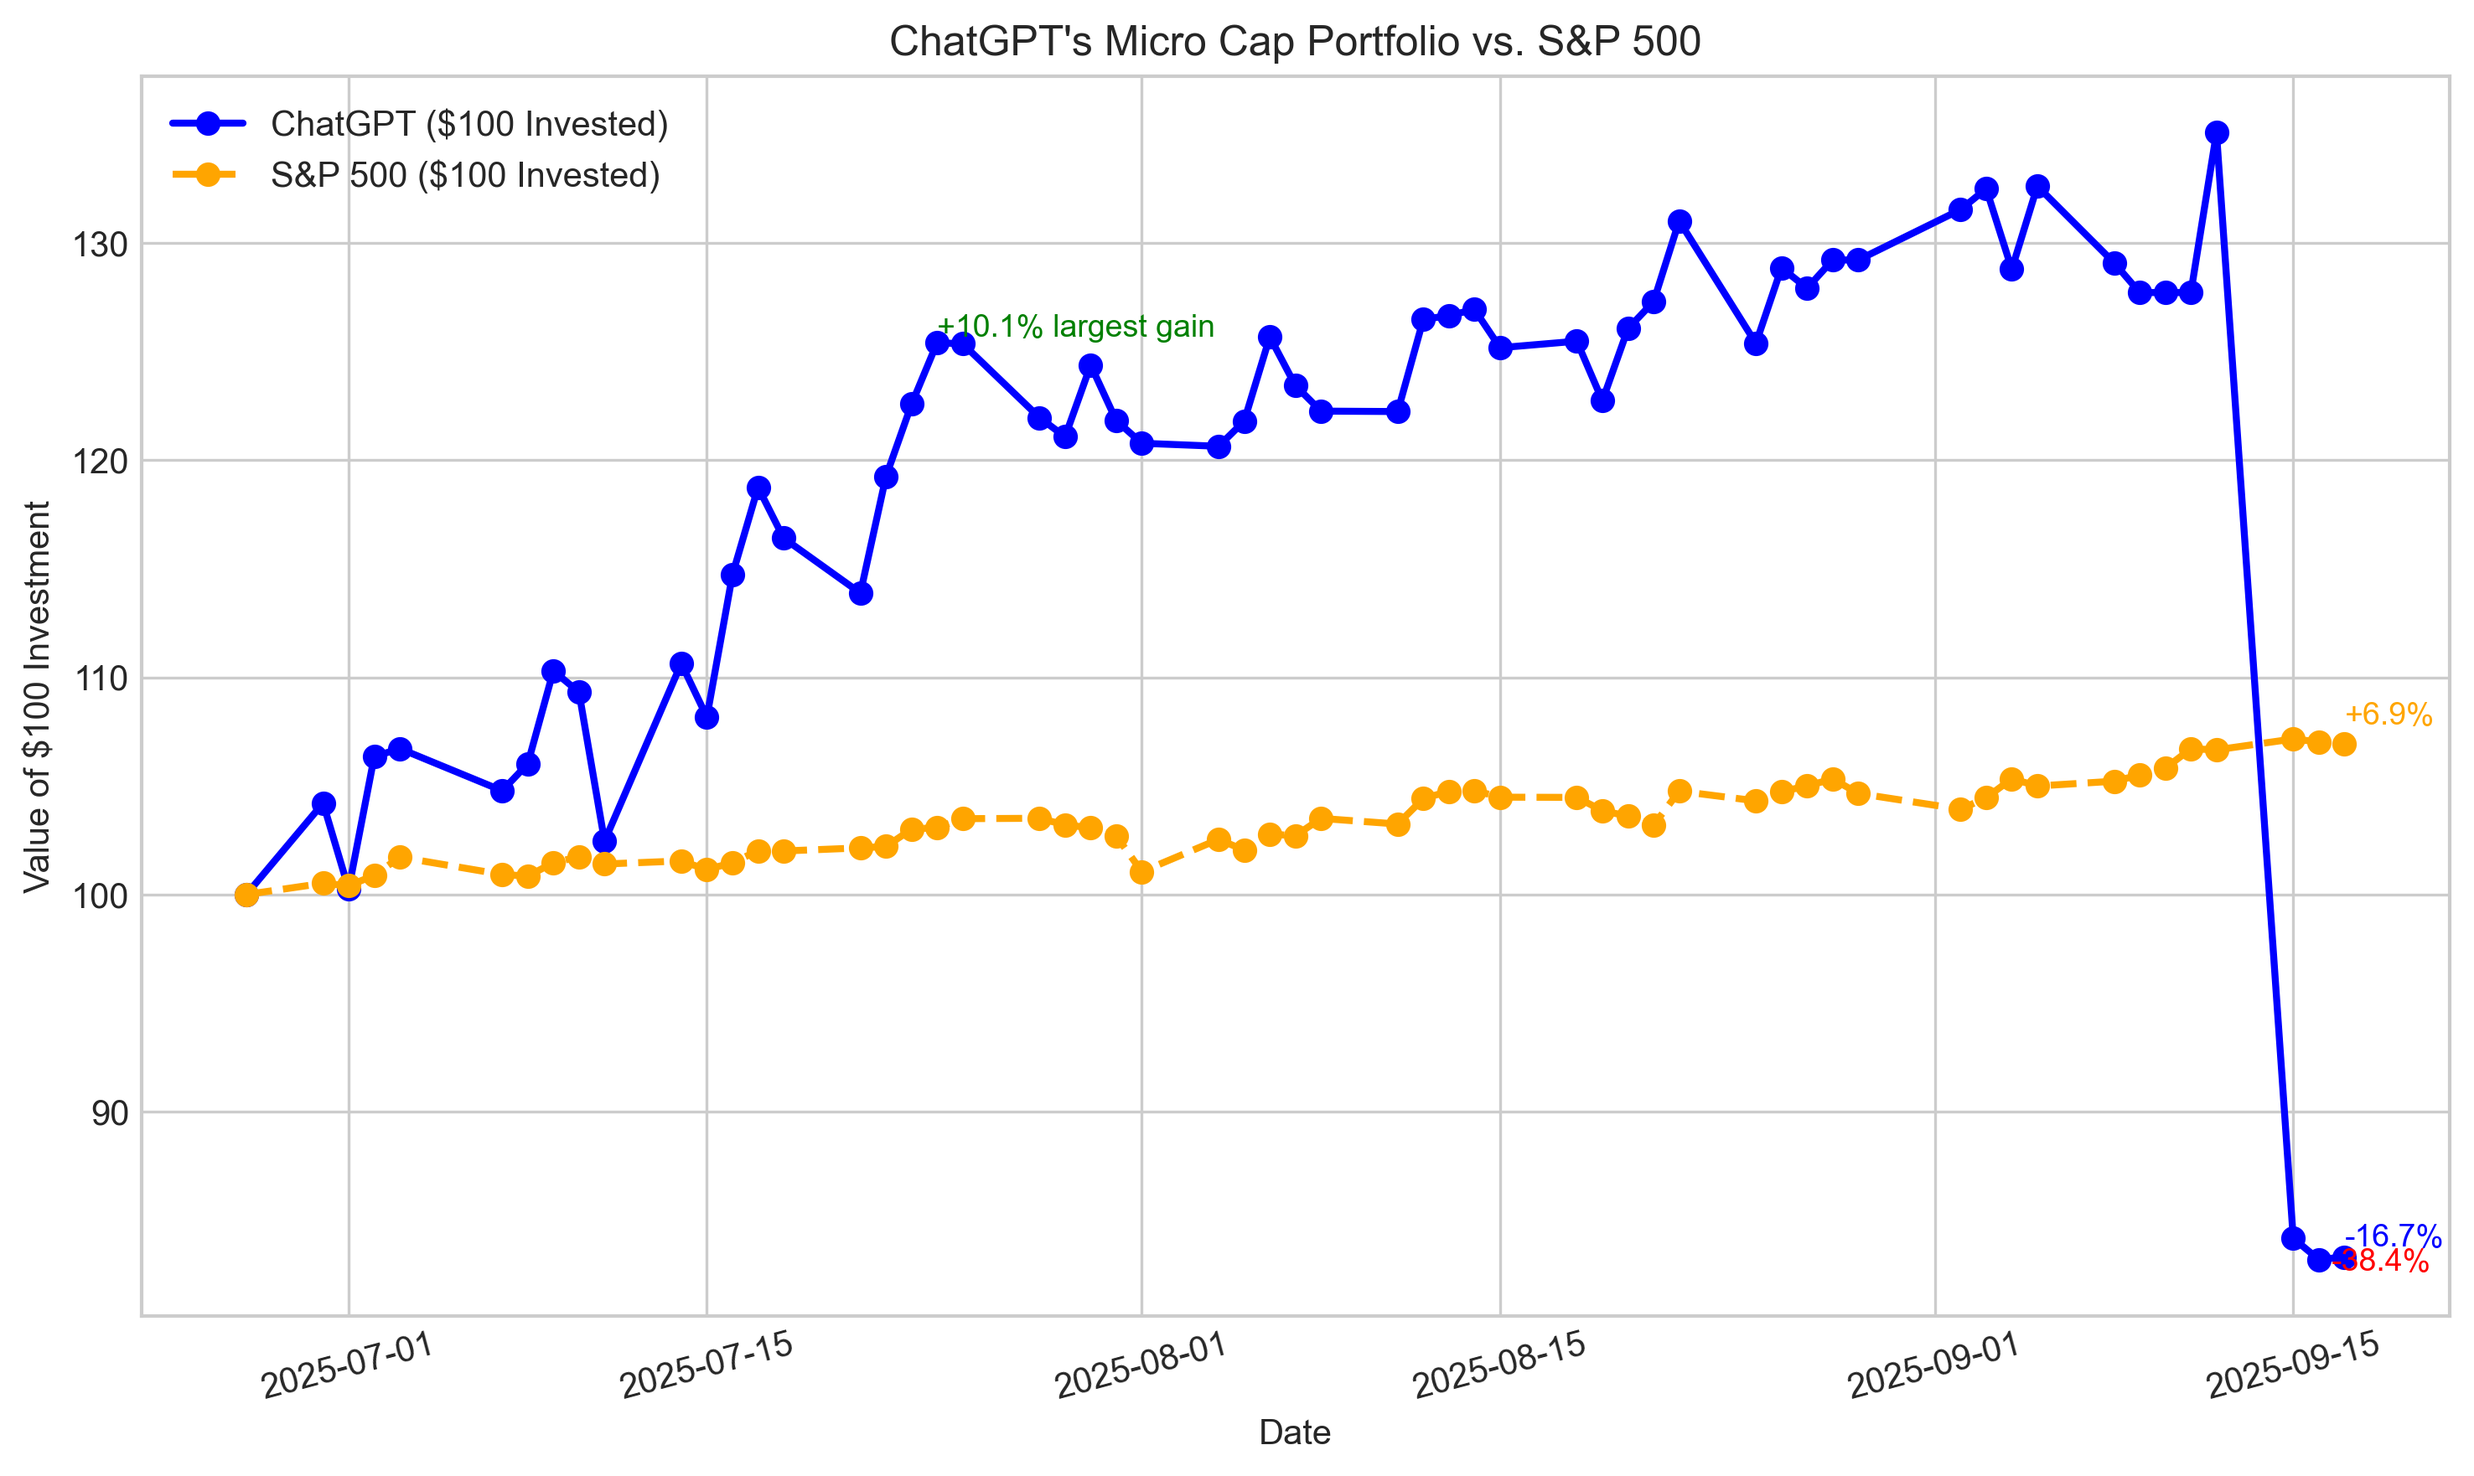
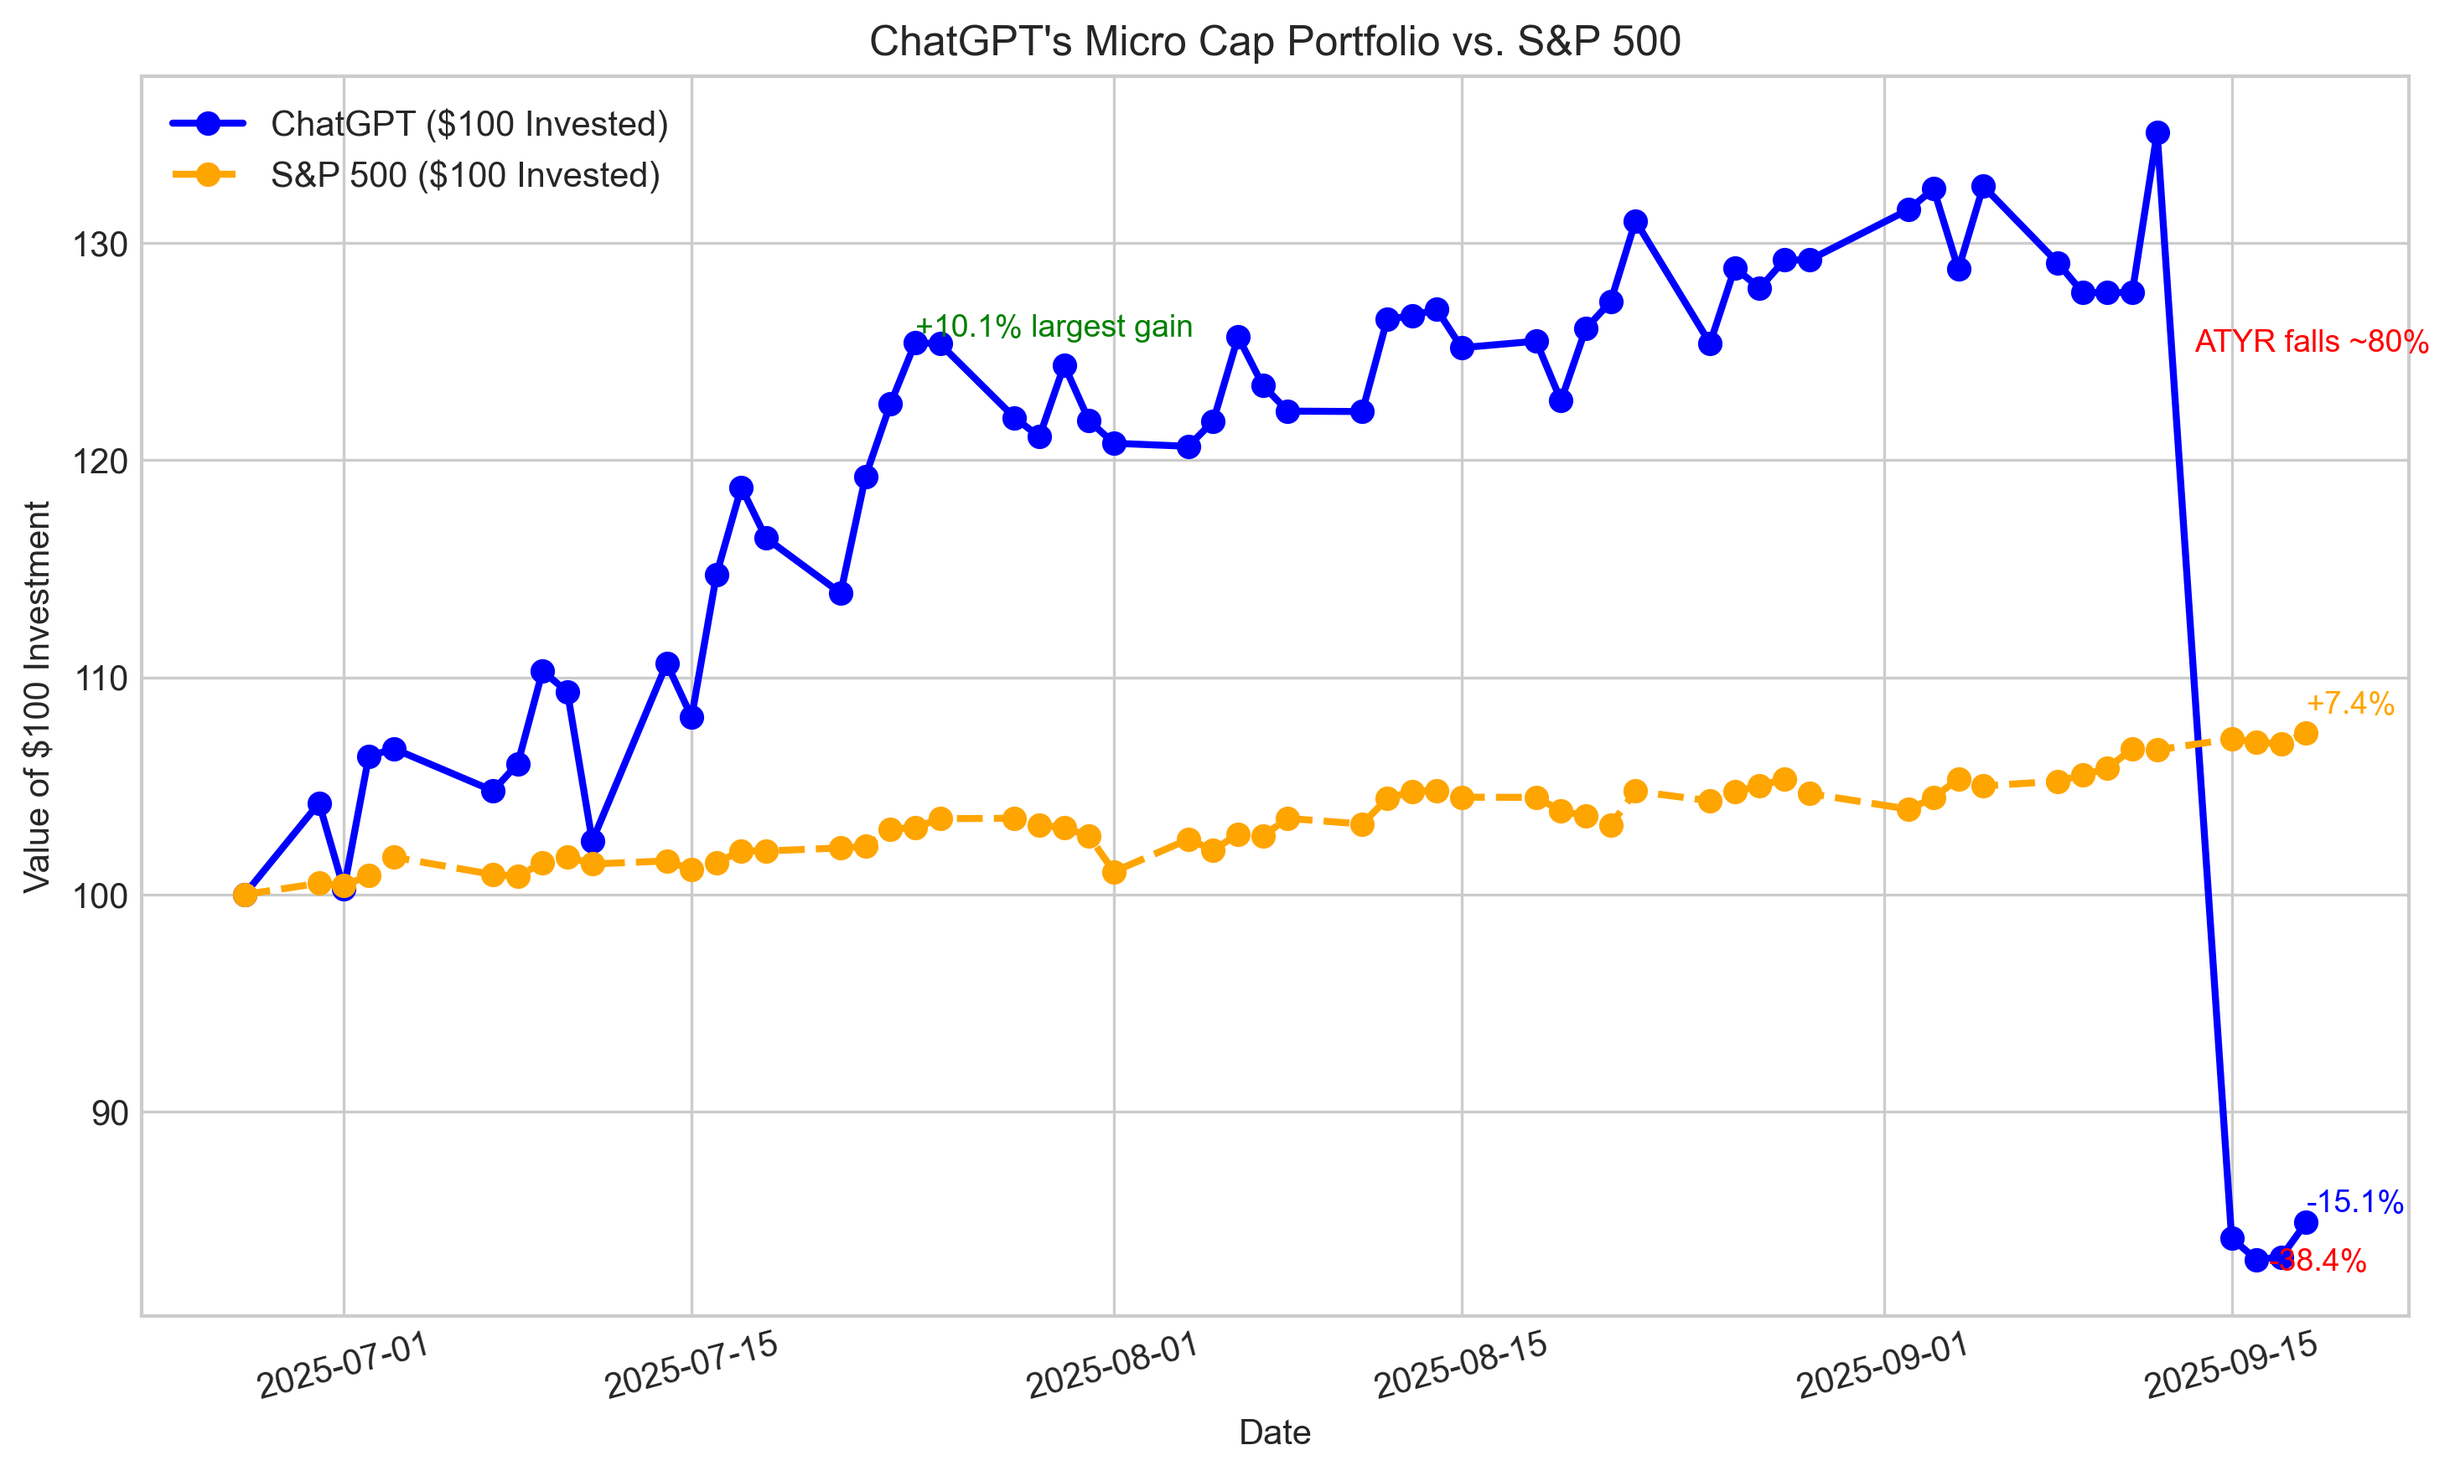
Add label for drawdown

diff --git a/Scripts and CSV Files/Generate_Graph.py b/Scripts and CSV Files/Generate_Graph.py
@@ -154,6 +154,15 @@ def main() -> dict:
     plt.text(final_date, final_chatgpt + 0.5, f"{final_chatgpt - 100.0:.1f}%", color="blue", fontsize=9)
     plt.text(final_date, final_spx + 0.9, f"+{final_spx - 100.0:.1f}%", color="orange", fontsize=9)
 
+    # label ATYR's catalyst failure
+    plt.text(
+
+        pd.to_datetime("2025-09-13") + pd.Timedelta(days=0.5),
+        125,
+        f"ATYR falls ~80%",
+        color="red",
+        fontsize=9,
+    )
     # annotate max drawdown
     plt.text(
         dd_date + pd.Timedelta(days=0.5),
